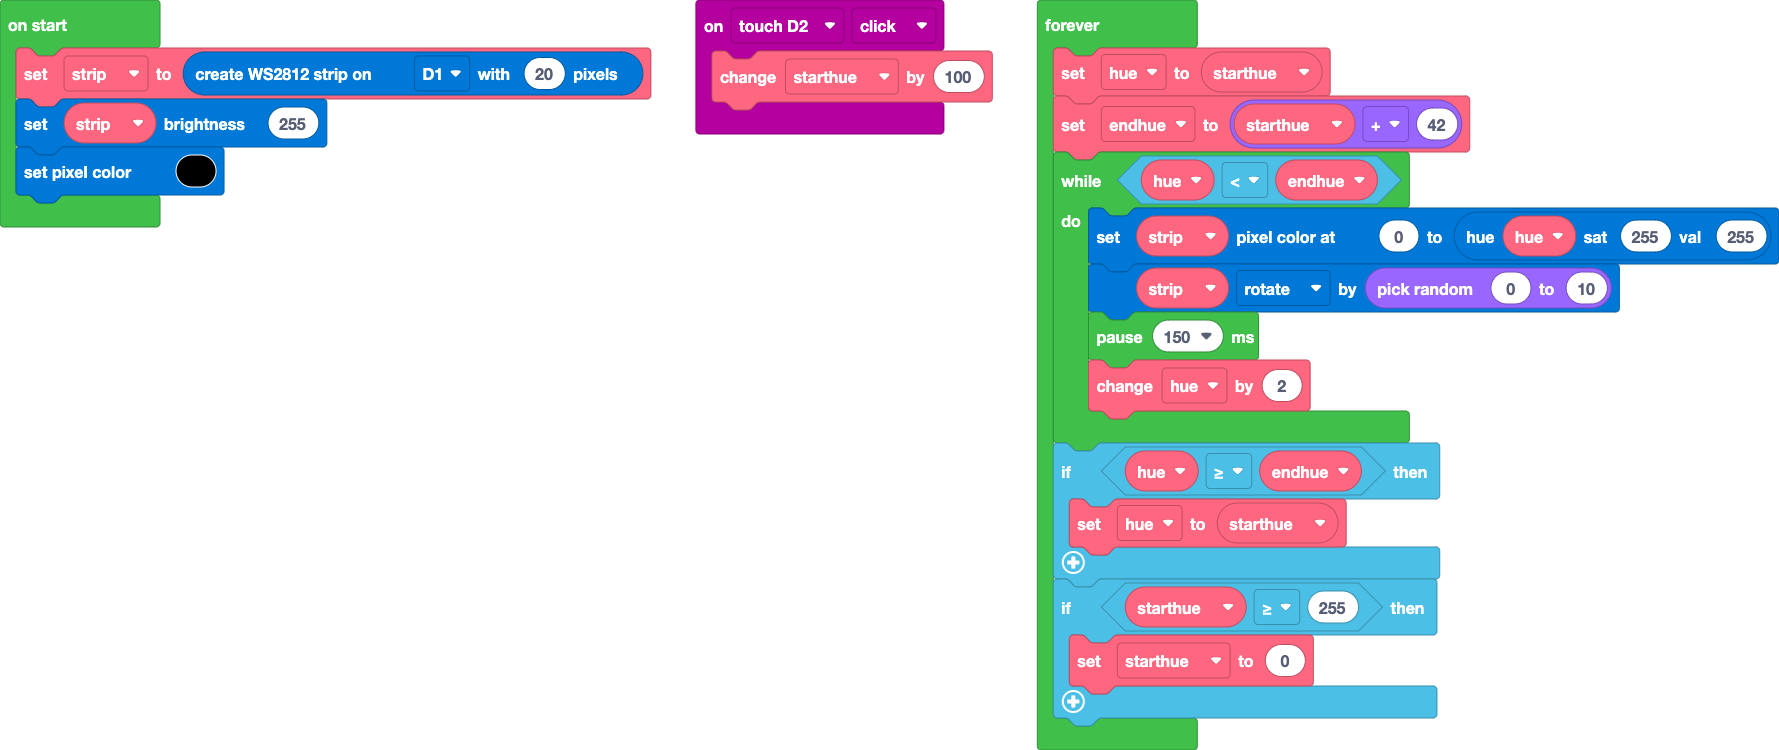
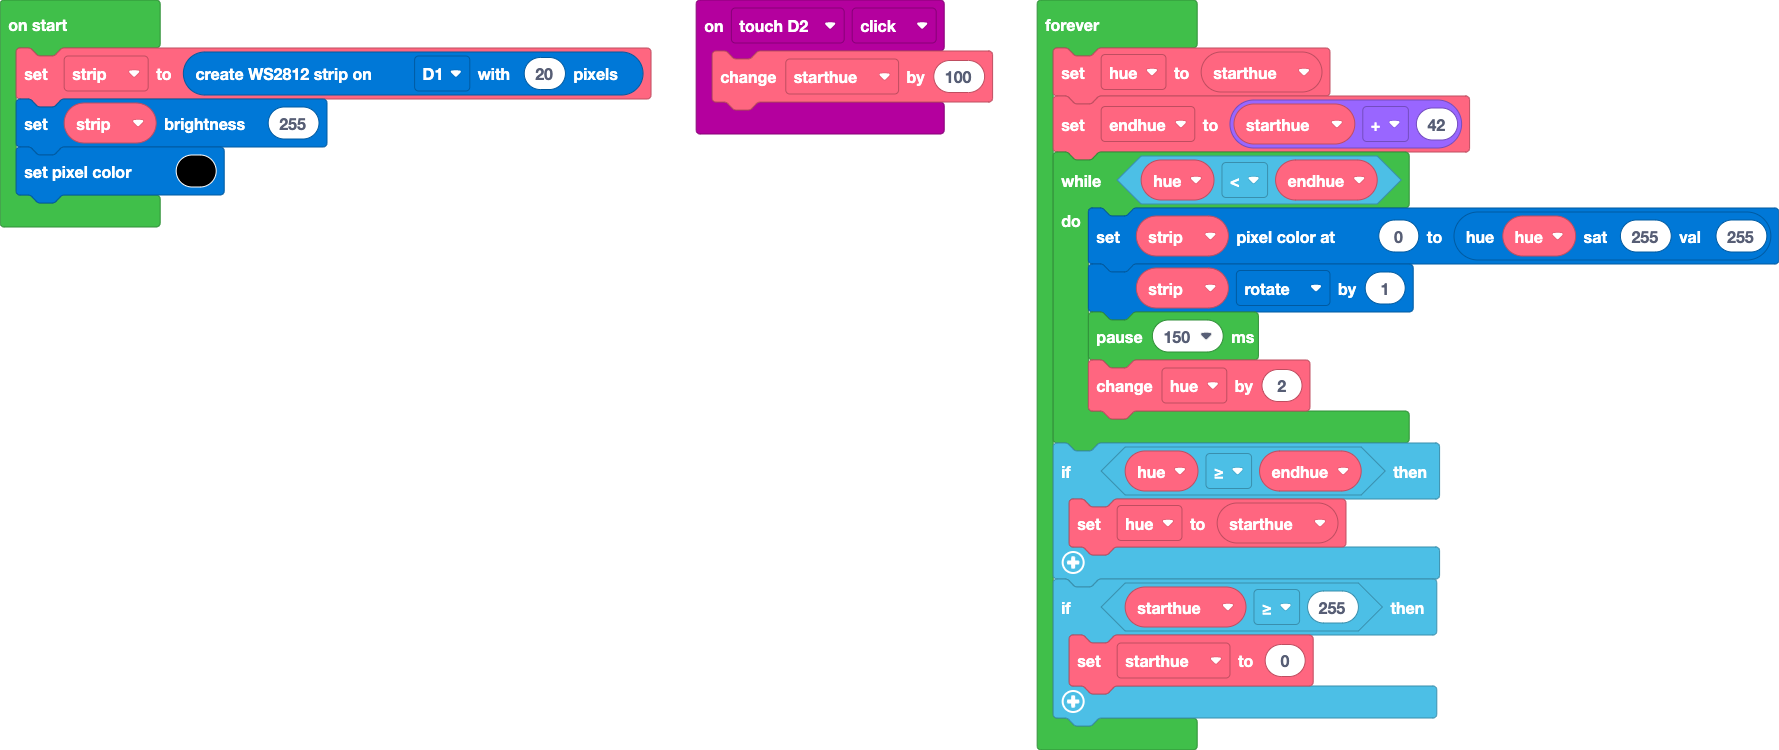
Update pxt.json, main.blocks, main.ts

diff --git a/main.ts b/main.ts
@@ -12,7 +12,7 @@ forever(function () {
     endhue = starthue + 42
     while (hue < endhue) {
         strip.setPixelColor(0, light.hsv(hue, 255, 255))
-        strip.move(LightMove.Rotate, randint(0, 10))
+        strip.move(LightMove.Rotate, 1)
         pause(150)
         hue += 2
     }
